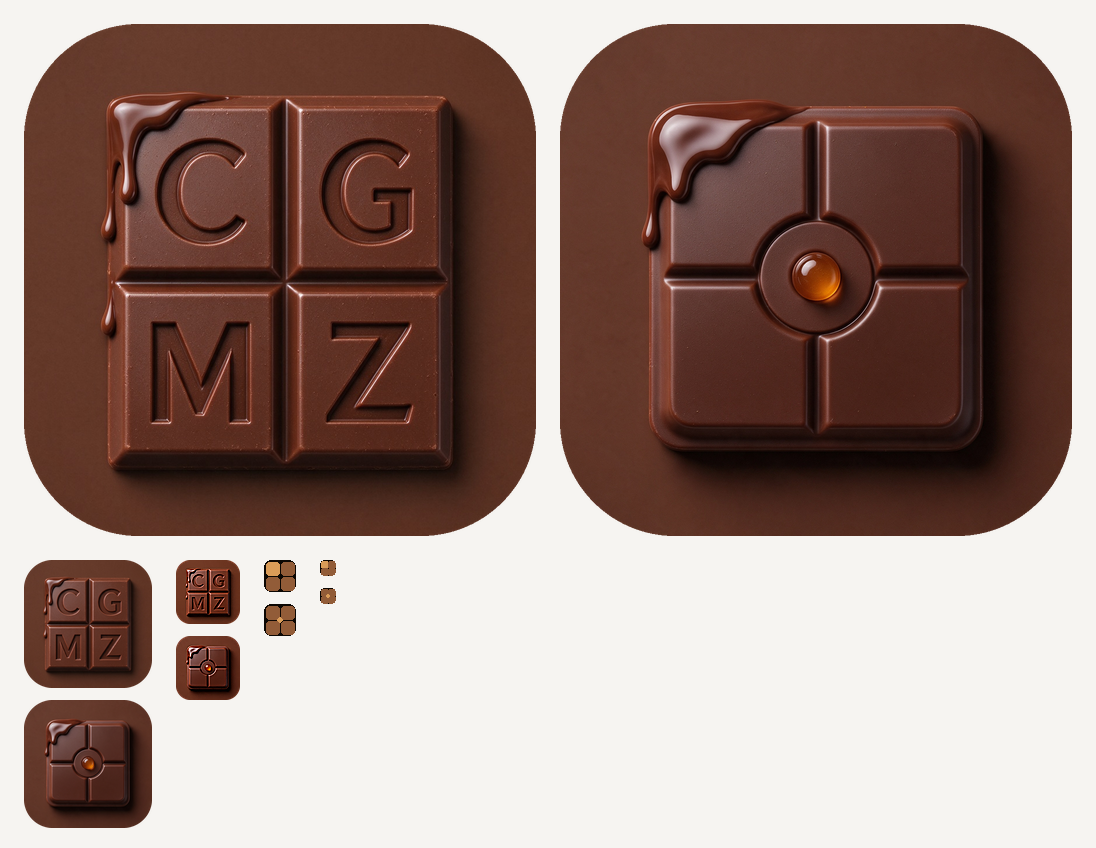
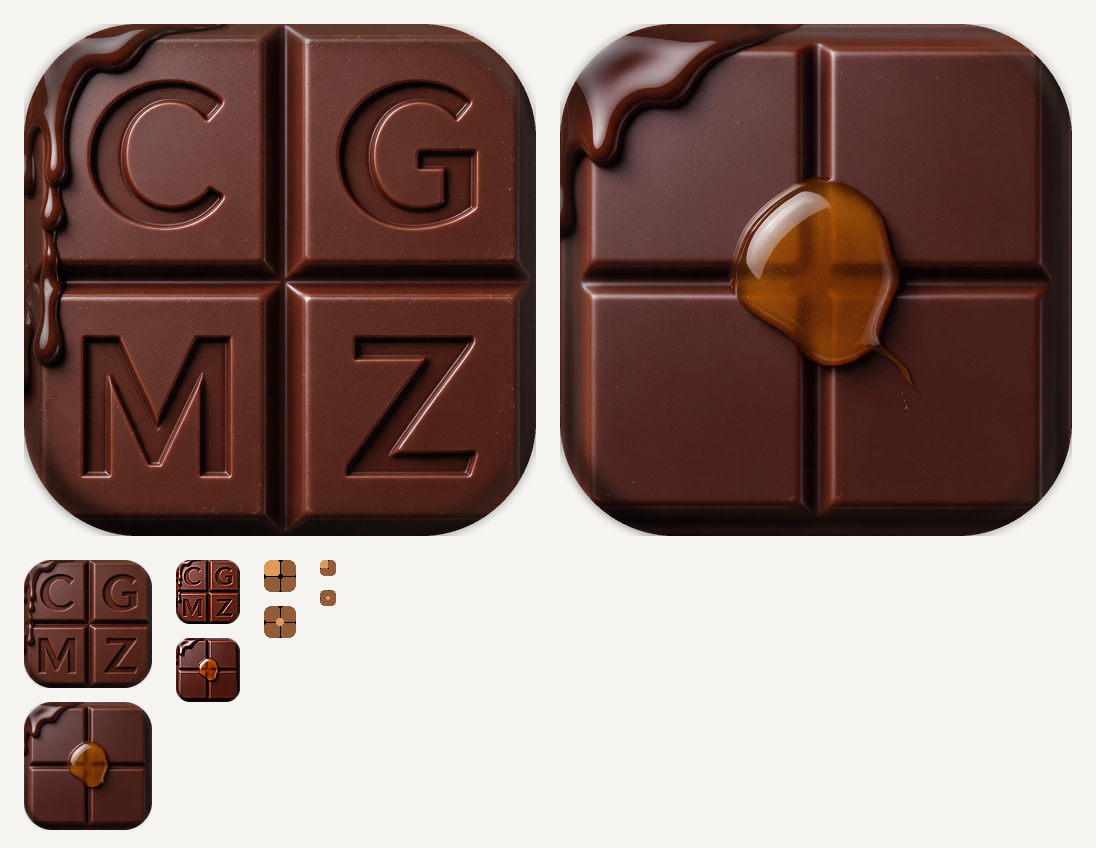
feat(图标): 两套图标改成「顶满 + 内收倒角」，中枢中心换成一大滴蜂蜜
按用户意见重做两处：
1. 去掉四周背景留边：巧克力板顶满整个图标，四格直接到画布四边，
   左上融化淋面从图标边缘流下（源图重画成满版，--crop=0,0,100,100 整帧裁）
2. 边缘加内收倒角：apply_bevel() 在圆角遮罩之后程序化加一圈柔化的斜边
   （受光侧暖高光、背光侧压暗 + 内侧过渡），读起来是一块有厚度的板，
   而不是一张被圆角裁出来的照片。硬描边试过一版，看着像贴纸，弃用。
3. DockolateHub 中心从「琥珀色半球接点」换成**一大滴半透明蜂蜜**：
   不规则、能透出底下的深色、右下拖一条蜜丝；生成两版，第二版才有粘稠感

- icon_from_image.py：新增 --crop=L,T,R,B（自动关暗角、开 BLEED）、apply_bevel()、
  剪影 pad 随 BLEED 收窄；不给 --crop 时行为与之前一致
- resources/{icon-source,hub-icon-source}.jpg 换成满版新图
- README「两套图标」一节同步（顶满/倒角/蜂蜜/命令）

diff --git a/tools/icon_from_image.py b/tools/icon_from_image.py
@@ -16,11 +16,57 @@ import os
 import subprocess
 import sys
 
-from PIL import Image, ImageDraw, ImageEnhance, ImageFilter
+from PIL import Image, ImageChops, ImageDraw, ImageEnhance, ImageFilter, ImageOps
 
 FINAL = 1024
 RADIUS_RATIO = 0.2237    # Apple 图标圆角
 VARIANT = "dock"
+BLEED = False            # True = 四格顶满图标（--crop 时自动打开）
+
+
+def apply_bevel(im: Image.Image) -> Image.Image:
+    """给已经套好圆角遮罩的图标加「内收倒角」：边缘一圈斜边 + 受光/背光。
+
+    为什么不用贴图：倒角必须严格贴着圆角边界，程序化画才能保证边对边对齐；
+    生成图里的倒角一旦和遮罩差几像素，就会露出一条浅边。
+    v2：整圈改成**柔化**的厚度过渡（大半径高斯），不再用硬描边——
+    硬描边看起来像贴上去的一圈亮线，柔化后才像板子边缘转下去。
+    """
+    S = im.size[0]
+    R = int(S * RADIUS_RATIO)
+
+    def rr(k: int) -> Image.Image:
+        m = Image.new("L", (S, S), 0)
+        ImageDraw.Draw(m).rounded_rectangle([k, k, S - 1 - k, S - 1 - k],
+                                           radius=max(0, R - k), fill=255)
+        return m
+
+    band = ImageChops.subtract(rr(0), rr(int(S * 0.038)))          # 边缘厚度区
+    band = band.filter(ImageFilter.GaussianBlur(S * 0.009))        # 柔化，去掉描边感
+    inner = ImageChops.subtract(rr(int(S * 0.020)), rr(int(S * 0.052)))
+    inner = inner.filter(ImageFilter.GaussianBlur(S * 0.012))      # 斜面内侧的过渡
+
+    trans = getattr(Image, "Transpose", Image)
+    vert = ImageOps.invert(Image.linear_gradient("L")).resize((S, S), Image.BILINEAR)  # 顶亮底暗
+    horiz = vert.transpose(trans.ROTATE_270)                       # 左亮右暗
+    light = ImageChops.add(vert, horiz, scale=2.0)                 # 斜向光照 左上1 → 右下0
+    dark_dir = ImageChops.invert(light)
+
+    overlay = Image.new("RGBA", (S, S), (0, 0, 0, 0))
+    warm = (255, 240, 214)
+    # 1) 受光侧：板边转上来的一圈暖高光（宽而软）
+    lit = ImageChops.multiply(band, light).point(lambda v: int(v * 0.34))
+    overlay.paste(Image.new("RGBA", (S, S), warm + (255,)), (0, 0), lit)
+    # 2) 背光侧：边缘压暗，坐实厚度
+    dark = ImageChops.multiply(band, dark_dir).point(lambda v: int(v * 0.55))
+    overlay.paste(Image.new("RGBA", (S, S), (0, 0, 0, 255)), (0, 0), dark)
+    # 3) 斜面与台面之间再压一道很轻的过渡（只在背光侧）
+    dark2 = ImageChops.multiply(inner, dark_dir).point(lambda v: int(v * 0.22))
+    overlay.paste(Image.new("RGBA", (S, S), (0, 0, 0, 255)), (0, 0), dark2)
+
+    out = im.copy()
+    out.alpha_composite(overlay)
+    return out
 
 
 def render_small(n: int) -> Image.Image:
@@ -32,7 +78,11 @@ def render_small(n: int) -> Image.Image:
     """
     im = Image.new("RGBA", (n, n), (12, 7, 3, 255))   # 缝隙色要够深，否则小尺寸糊成一片
     d = ImageDraw.Draw(im)
-    pad = max(1, round(n * 0.07))
+    if BLEED:
+        # 顶满图标：四格直接贴到圆角边，只留一根缝的宽度
+        pad = max(0, round(n * 0.012))
+    else:
+        pad = max(1, round(n * 0.07))
     gap = max(1, round(n * 0.065))                    # 缝略宽，16px 才分得开
     cell = (n - pad * 2 - gap) / 2
     radius = max(1, round(cell * 0.22))
@@ -60,14 +110,15 @@ def render_small(n: int) -> Image.Image:
 
 
 def main() -> int:
-    global VARIANT
+    global VARIANT, BLEED
     if len(sys.argv) < 2:
         print(__doc__, file=sys.stderr)
         return 2
     src = sys.argv[1]
     out_dir = sys.argv[2] if len(sys.argv) > 2 and not sys.argv[2].startswith("--") else "build/icon"
-    zoom = 0.86          # 裁掉多少边缘：越小主体越大、留白越少
+    zoom = 0.86          # 裁掉多少边缘：越小主体越大、留白越少（--crop 给了就不用它）
     name = "Dockolate"   # icns / iconset 基名
+    crop = None          # --crop=L,T,R,B（百分比），直接框住巧克力板、顶满图标
     for a in sys.argv[1:]:
         if a.startswith("--zoom="):
             zoom = float(a.split("=", 1)[1])
@@ -75,33 +126,62 @@ def main() -> int:
             name = a.split("=", 1)[1]
         elif a.startswith("--variant="):
             VARIANT = a.split("=", 1)[1]
+        elif a.startswith("--crop="):
+            crop = [float(v) / 100.0 for v in a.split("=", 1)[1].split(",")]
+            if len(crop) != 4:
+                print("--crop 需要 L,T,R,B 四个百分比", file=sys.stderr)
+                return 2
+            BLEED = True
     os.makedirs(out_dir, exist_ok=True)
 
     im = Image.open(src).convert("RGBA")
     w, h = im.size
-    side = min(w, h)
-    im = im.crop(((w - side) // 2, (h - side) // 2,
-                  (w - side) // 2 + side, (h - side) // 2 + side))
-    im = im.resize((FINAL, FINAL), Image.LANCZOS)
+    if crop is not None:
+        l, t, r, b = crop
+        x0, y0, x1, y1 = l * w, t * h, r * w, b * h
+        # 不是正方形就先扩成正方形（以框中心为准，不拉伸变形）
+        bw, bh = x1 - x0, y1 - y0
+        side = max(bw, bh)
+        cx, cy = (x0 + x1) / 2, (y0 + y1) / 2
+        x0, y0 = cx - side / 2, cy - side / 2
+        # 越界就把框整体推回画面内
+        x0 = min(max(0.0, x0), w - side)
+        y0 = min(max(0.0, y0), h - side)
+        side = min(side, w, h)
+        im = im.crop((int(round(x0)), int(round(y0)),
+                      int(round(x0 + side)), int(round(y0 + side))))
+        im = im.resize((FINAL, FINAL), Image.LANCZOS)
+    else:
+        side = min(w, h)
+        im = im.crop(((w - side) // 2, (h - side) // 2,
+                      (w - side) // 2 + side, (h - side) // 2 + side))
+        im = im.resize((FINAL, FINAL), Image.LANCZOS)
 
-    # 主体放大：从中心再裁一圈（用户要求留白更少）
-    z = int(FINAL * zoom)
-    off = (FINAL - z) // 2
-    im = im.crop((off, off, off + z, off + z)).resize((FINAL, FINAL), Image.LANCZOS)
+        # 主体放大：从中心再裁一圈（用户要求留白更少）
+        z = int(FINAL * zoom)
+        off = (FINAL - z) // 2
+        im = im.crop((off, off, off + z, off + z)).resize((FINAL, FINAL), Image.LANCZOS)
 
     # 柔和暗角：把四角压暗一点，让巧克力主体从同色背景里分离出来
-    vig = Image.new("L", (FINAL, FINAL), 0)
-    vd = ImageDraw.Draw(vig)
-    vd.ellipse([-int(FINAL * 0.18), -int(FINAL * 0.18),
-                int(FINAL * 1.18), int(FINAL * 1.18)], fill=255)
-    vig = vig.filter(__import__("PIL.ImageFilter", fromlist=["ImageFilter"]).GaussianBlur(FINAL * 0.10))
-    dark = Image.new("RGBA", (FINAL, FINAL), (26, 14, 8, 255))
-    im = Image.composite(im, Image.blend(im, dark, 0.42), vig)
+    # （--crop 顶满画面时不再压角：四角已经是巧克力本体，压暗会脏）
+    if crop is None:
+        vig = Image.new("L", (FINAL, FINAL), 0)
+        vd = ImageDraw.Draw(vig)
+        vd.ellipse([-int(FINAL * 0.18), -int(FINAL * 0.18),
+                    int(FINAL * 1.18), int(FINAL * 1.18)], fill=255)
+        vig = vig.filter(__import__("PIL.ImageFilter", fromlist=["ImageFilter"]).GaussianBlur(FINAL * 0.10))
+        dark = Image.new("RGBA", (FINAL, FINAL), (26, 14, 8, 255))
+        im = Image.composite(im, Image.blend(im, dark, 0.42), vig)
 
     mask = Image.new("L", (FINAL, FINAL), 0)
     ImageDraw.Draw(mask).rounded_rectangle(
         [0, 0, FINAL - 1, FINAL - 1], radius=int(FINAL * RADIUS_RATIO), fill=255)
     im.putalpha(mask)
+
+    # 顶满（--crop）时给边缘加一圈内收倒角：斜边受光/背光，读起来是一块有厚度的板，
+    # 而不是一张被圆角裁出来的照片
+    if BLEED:
+        im = apply_bevel(im)
 
     preview = os.path.join(out_dir, f"preview-{name}-1024.png")
     im.save(preview)
